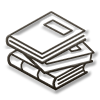
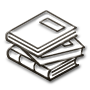
Revised home images, new bookmark button image, tweaked CSS

diff --git a/future/templates/common/css/compliant.css b/future/templates/common/css/compliant.css
@@ -186,7 +186,7 @@ select {
 }
 
 .emphasized {
-	margin: 16px 0;
+	margin: 14px 0;
 }
 
 
@@ -468,7 +468,7 @@ a.module img {
 .nav li {	
 	list-style-type: none;	
 	border-top: 1px solid #ccc;
-	padding: 12px;
+	padding: 11px;
 	position: relative;
 }
 
@@ -493,7 +493,7 @@ a.module img {
 
 .nav a  {
 	display: block;
-	padding: 8px 25px 8px 8px;
+	padding: 8px 24px 10px 8px;
 	margin: -8px;	 
 	background-image: url(/common/images/action-arrow.png); 
 	background-repeat: no-repeat;
@@ -504,7 +504,7 @@ a.module img {
 }
 
 .nav li.icon {
-  padding: 0 12px;
+  padding: 0 11px;
   min-height: 54px;
 }
 .nav li.icon img {
@@ -517,7 +517,7 @@ a.module img {
 .nav li.icon a {
   position: relative;
   margin: 0 -7px 0 0;
-  padding: 12px 5px 12px 58px;
+  padding: 11px 4px 11px 57px;
   line-height: 30px;
 }
 
@@ -537,7 +537,7 @@ ul.focal {
 
 ul.focal li {
 	list-style-type: none;
-	padding: 12px;
+	padding: 11px;
 	position: relative;
 	border-top: 1px solid #ccc; 
 }
@@ -572,7 +572,8 @@ ul.focal li:first-child {
 .results {	   
 	padding: 0;	   
 	margin: 10px 0; 
-	border: 1px solid #ccc;
+	border-top: 1px solid #ccc;
+	border-bottom: 1px solid #ccc;
 }
 
 .results li {	
@@ -587,7 +588,7 @@ ul.focal li:first-child {
 
 .results a  {
 	display: block;
-	padding: 10px 25px 10px 7px;
+	padding: 9px 25px 9px 7px;
 	margin: -7px;	 
 	background-image: url(/common/images/action-arrow.png); 
 	background-repeat: no-repeat;
@@ -642,15 +643,15 @@ ul.focal li:first-child {
 	margin: 10px; 
 	padding: 0;	   
 	border: 1px solid #ccc;
-	-webkit-border-radius: 9px;	
-	border-radius: 9px;	
+	-webkit-border-radius: 8px;	
+	border-radius: 8px;	
 }
 
 .secondary li {
 	list-style-type: none;		
 	border-top: 1px solid #ccc;
 	position: relative;
-	padding: 9px 10px;
+	padding: 9px;
 }
 
 .secondary li:first-child {
@@ -659,8 +660,8 @@ ul.focal li:first-child {
 
 .secondary a {
 	display: block;
-	padding: 9px 25px 9px 8px;
-	margin: -7px;	 
+	padding: 8px 25px 8px 7px;
+	margin: -6px;	 
 	background-image: url(/common/images/action-arrow.png); 
 	background-repeat: no-repeat;
 	background-position: right; 
@@ -786,7 +787,7 @@ ul.focal li:first-child {
 	display: block;
 	width: 78px;
 	position: absolute;
-	top: 17px;
+	top: 15px;
 	left: 0px;
 	font-size: 13px;
 	line-height: 15px;
@@ -797,11 +798,11 @@ ul.focal li:first-child {
 
 .value {
 	display: block;
-	margin-left: 76px;
+	margin-left: 74px;
 	font-size: 17px;
-	min-height: 20px;
-	line-height: 24px;
-	padding-right: 22px;
+	min-height: 21px;
+	line-height: 20px;
+	padding-right: 20px;
 	word-wrap: break-word;
 }
 

diff --git a/future/site/Harvard/themes/default/common/css/compliant.css b/future/site/Harvard/themes/default/common/css/compliant.css
@@ -148,13 +148,13 @@ dt, .label, .longlabel, .legend, .legend.nonfocal, .legend h2, .legend h3, .smal
 }
 
 .springboard a {	
-	color: #404355;
+	color: #3a342e;
 }
 
 .springboard a img {
 	/* Size of actual item icon in springboard - for best results make actual PNGs match this size */
-	width: 62px;
-	height: 62px;
+	width: 60px;
+	height: 60px;
 }
 
 .springboard div.utility {
@@ -167,12 +167,12 @@ dt, .label, .longlabel, .legend, .legend.nonfocal, .legend h2, .legend h3, .smal
 
 .springboard div.utility a img {
 	/* Size of actual item icon in the springboard's fixed utility-type items - for best results make actual PNGs match this size */
-	width: 36px;
-	height: 36px;
+	width: 34px;
+	height: 34px;
 }
 
 .springboard .separator {
-	height: 18px;
+	height: 20px;
 }
 
 /* Navigation and results lists */

diff --git a/future/templates/modules/libraries/css/compliant.css b/future/templates/modules/libraries/css/compliant.css
@@ -144,6 +144,7 @@ table.search input[type=text], table.search select {
 .label {
   width: 88px;
 }
+
 .value {
   margin-left: 86px;
 }

diff --git a/future/templates/modules/libraries/LibrariesModule.php b/future/templates/modules/libraries/LibrariesModule.php
@@ -859,7 +859,7 @@ class LibrariesModule extends Module {
           }
           $info['hours'][] = array(
             'label' => null,
-            'title' => "Full week's schedule",
+            'title' => "7-day schedule",
             'url'   => $this->fullHoursURL($type, $id, $name),            
           );
           $info['hours'] = array_values($info['hours']);
